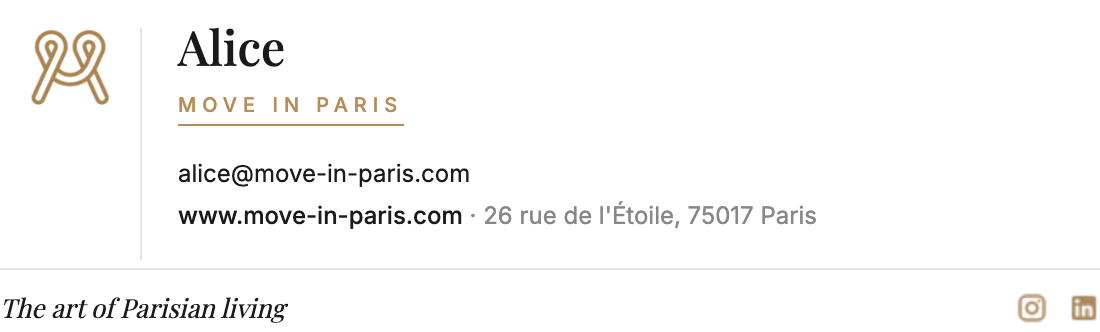
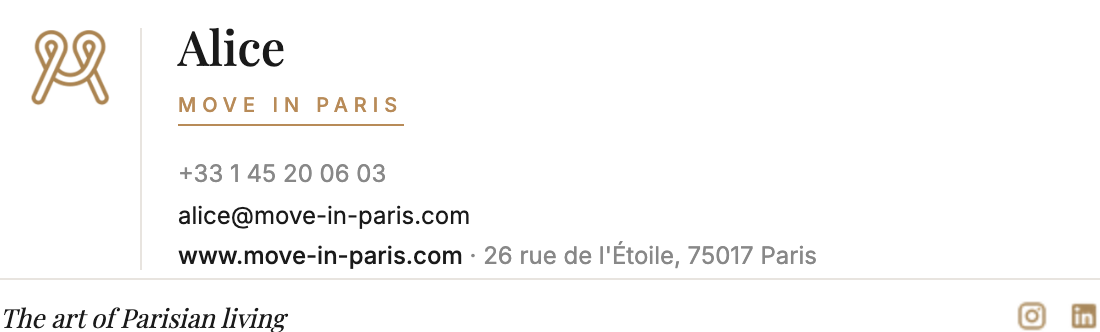
Refine Alice signature: add office phone for visual consistency

diff --git a/public/team-signatures/index.html b/public/team-signatures/index.html
@@ -158,6 +158,7 @@ INSTALLATION OUTLOOK MAC :
     <tr>
       <td>
         Alice &middot;
+        <a href="tel:+33145200603" style="color: #888888; text-decoration: none;">+33 1 45 20 06 03</a> &middot;
         <a href="mailto:alice@move-in-paris.com" style="color: #888888; text-decoration: none;">alice@move-in-paris.com</a><br>
         Move in Paris &middot; 26 rue de l'Étoile, 75017 Paris &middot;
         <a href="https://www.move-in-paris.com" style="color: #888888; text-decoration: none;">www.move-in-paris.com</a>

diff --git a/public/team-signatures/signature-alice.html b/public/team-signatures/signature-alice.html
@@ -19,6 +19,7 @@ INSTALLATION OUTLOOK MAC :
     <tr>
       <td>
         Alice &middot;
+        <a href="tel:+33145200603" style="color: #888888; text-decoration: none;">+33 1 45 20 06 03</a> &middot;
         <a href="mailto:alice@move-in-paris.com" style="color: #888888; text-decoration: none;">alice@move-in-paris.com</a><br>
         Move in Paris &middot; 26 rue de l'Étoile, 75017 Paris &middot;
         <a href="https://www.move-in-paris.com" style="color: #888888; text-decoration: none;">www.move-in-paris.com</a>
